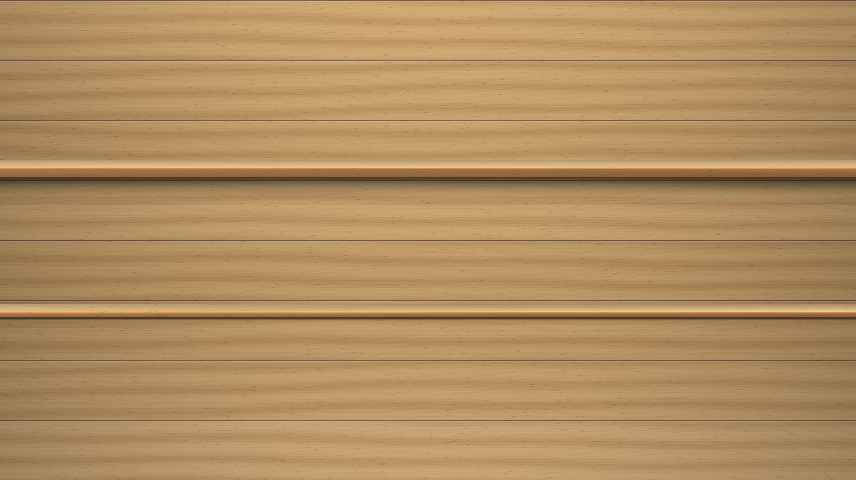
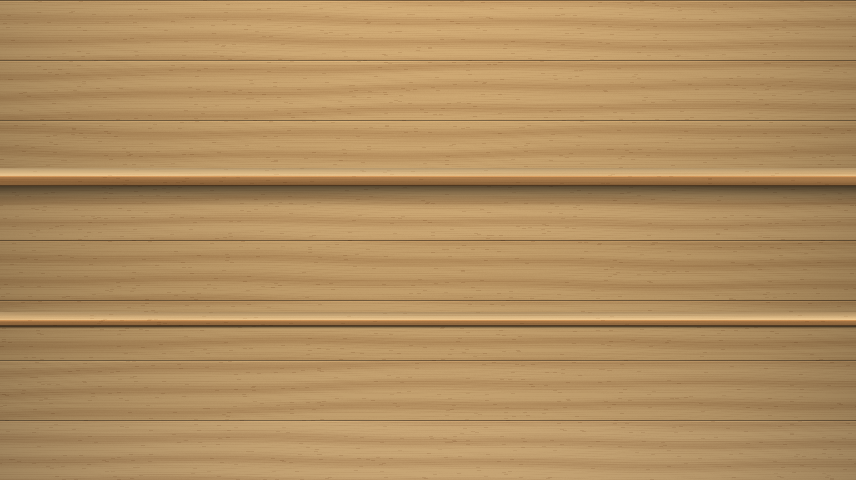
Tiles and covers swell with a small spring, and shelf hovers rise with the same easing while wide controls leave room for their neighbours (Dolphin: Settings, covers, layout cards, shelf and ring at 16:9; Wii build).

Changed region(s): [[0.0, 0.3125, 1.0, 0.4375], [0.0, 0.625, 1.0, 0.6875]]

diff --git a/wii/menu/gui_shelf.cpp b/wii/menu/gui_shelf.cpp
@@ -114,7 +114,8 @@ float g_mirrorY = kMirrorY;
 // and kept ready.
 constexpr int kRingPlaces = 20;
 constexpr int kRingReach = kRingPlaces / 2;
-constexpr float kRingFrontH = 236.0f;
+// Leave room for the hover at its highest point inside the top safe edge.
+constexpr float kRingFrontH = 220.0f;
 constexpr float kRingFloor = 266.0f;
 constexpr float kRingSpacing = 124.0f;
 constexpr float kRingMinRadiusX = 200.0f;
@@ -932,7 +933,7 @@ void GuiGameGrid::DrawShelf(int alpha) {
             want.z = (d == 0 ? kPullZ : 0.0f) + kArcRadius * (std::cos(a) - 1.0f);
             want.turn = static_cast<float>(M_PI) / 2 - kArcTurn * a + (d == 0 ? 0.07f * swing * settle : 0.0f) +
                         (d == 0 && shelfFlip ? static_cast<float>(M_PI) : 0.0f);
-            want.lift = -kArcDrop * (1.0f - std::cos(a)) + (i == shelfHover ? kLift : 0.0f) +
+            want.lift = -kArcDrop * (1.0f - std::cos(a)) +
                         (d == 0 ? 3.0f * (0.5f + 0.5f * std::sin(shelfClock * 0.045f)) * settle : 0.0f);
             if (!p.placed) {
                 p = want;
@@ -949,7 +950,6 @@ void GuiGameGrid::DrawShelf(int alpha) {
             want.x = 320.0f + (d < 0 ? -off : off);
             // Turned past a half (its back was shown): on round, not back.
             want.turn = p.placed && p.turn > static_cast<float>(M_PI) ? kTau : 0.0f;
-            want.lift = i == shelfHover ? kLift : 0.0f;
         }
         if (!p.placed) {
             // Coming into reach: a spine beside its neighbour nearer the
@@ -968,7 +968,11 @@ void GuiGameGrid::DrawShelf(int alpha) {
         p.x = riftwii::wii::transition::Follow(p.x, want.x, kBoxResponseMs);
         p.z = riftwii::wii::transition::Follow(p.z, want.z, kBoxResponseMs);
         p.turn = riftwii::wii::transition::Follow(p.turn, want.turn, kBoxResponseMs);
-        p.lift = riftwii::wii::transition::Follow(p.lift, want.lift, kBoxResponseMs);
+        // Keep the shelf's positioning glide separate from the springy
+        // hover, so following the target does not erase its overshoot.
+        const float previousHover = p.hover.Amount();
+        const float hover = p.hover.Advance(i == shelfHover);
+        p.lift = riftwii::wii::transition::Follow(p.lift - kLift * previousHover, want.lift, kBoxResponseMs) + kLift * hover;
         if (want.turn == kTau && p.turn > kTau - 0.01f) p.turn = 0.0f;
     }
     // Include newly placed boxes too, before drawing them or recording
@@ -1281,6 +1285,7 @@ void GuiGameGrid::DrawShelfCaption(int alpha) {
 void GuiGameGrid::DrawRing(int alpha) {
     const int n = Count();
     if (n <= 0) return;
+    if (static_cast<int>(poses.size()) != n) poses.assign(n, BoxPose{});
     const float elapsedFrames = riftwii::wii::transition::FrameMilliseconds() * (60.0f / 1000.0f);
     shelfClock = std::fmod(shelfClock + elapsedFrames, kSwayCycle);
     if (shelfFlipFor != focus) {
@@ -1361,10 +1366,12 @@ void GuiGameGrid::DrawRing(int alpha) {
         const float others = 0.30f + 0.42f * std::pow(near, 1.6f);
         const float front = std::max(0.0f, 1.0f - std::fabs(p.angle) / step);
         const float scale = others + (1.0f - others) * front;
-        const float h = kRingFrontH * scale;
+        const float hover = poses[p.index].hover.Advance(p.index == shelfHover);
+        const float h = kRingFrontH * scale * (1 + 0.04f * hover);
         const float cx = 320.0f + radiusX * std::sin(p.angle);
         float foot = kRingFloor - kRingRise * (1.0f - near);
-        if (p.index == shelfHover) foot -= 8.0f;
+        // The ring is already tall: four percent leaves the caption clear.
+        foot -= 8.0f * hover;
         if (p.index == focus) foot -= 3.0f * (0.5f + 0.5f * std::sin(shelfClock * 0.045f)) * settle;
         const u8 shade = static_cast<u8>(255 * (0.36f + 0.64f * near));
         const GXColor lit = {shade, shade, shade, static_cast<u8>(alpha)};

diff --git a/wii/menu/gui_gamegrid.cpp b/wii/menu/gui_gamegrid.cpp
@@ -106,7 +106,7 @@ constexpr float kIconPixelsW = 128.0f, kIconPixelsH = 96.0f;
 constexpr int kChannelPixelsH = 88, kChannelGapPixelsX = 12, kChannelGapY = 10;
 // As the other views' tiles; the search button moves to the bar
 // (rift_menu.cpp), the fourth column reaching the corner it had.
-constexpr int kChannelTop = 30;
+constexpr int kChannelTop = 36;
 // Roomy spacing (grid_spacing = roomy): a tester found the grid cramped
 // beside the Wii Menu, which leaves wider gaps at the sides. The channels
 // are 7/8 the size (112 x 77, the icons scaled with them, so no longer
@@ -301,10 +301,10 @@ float GuiGameGrid::Stretch() const {
 }
 
 const GuiGameGrid::Geometry& GuiGameGrid::Geo() const {
-    // The top row starts 6 below the overscan's edge (y 24): room for the lit ring.
+    // The top row leaves room above it for the grown ring and its shadow.
     // 120 x 84, the Wii Menu's channel shape (about 1.43 to 1 on a 4:3
     // menu); clear of the search button (x 568).
-    static const Geometry names = {kNameCols, 120, 84, 61, 30, 13, 12};  // channels: channelGeo
+    static const Geometry names = {kNameCols, 120, 84, 61, 36, 13, 12};  // channels: channelGeo
     // Roomy: 9/10 the size and 18 apart, about 77 at each side, the rows
     // centred where the normal ones are.
     static const Geometry roomyNames = {kNameCols, 108, 76, 77, 40, 18, 14};
@@ -314,7 +314,7 @@ const GuiGameGrid::Geometry& GuiGameGrid::Geo() const {
         const int w = static_cast<int>(riftwii::kCoverWidth * k + 0.5f);
         const int h = static_cast<int>(riftwii::kCoverHeight * k + 0.5f);
         const int gap = k > 1.0f ? 12 : 8;
-        coverGeo = {kCoverCols, w, h, 320 - (kCoverCols * w + (kCoverCols - 1) * gap) / 2, 30, gap, 10};
+        coverGeo = {kCoverCols, w, h, 320 - (kCoverCols * w + (kCoverCols - 1) * gap) / 2, 38, gap, 10};
         return coverGeo;
     }
     if (channels) {
@@ -1154,8 +1154,9 @@ void GuiGameGrid::Draw() {
     const auto draw_tile_body = [&](int i) {
         Slot& s = slots[i];
         const bool on = i == lit;
-        const float grown = i == carrySlot ? kCarryScale : on ? 1.06f : 1.0f;
-        s.scale = riftwii::wii::transition::Follow(s.scale, grown, 40.0f);
+        const float swell = s.swell.Advance(on);
+        if (i == carrySlot) s.scale = riftwii::wii::transition::Follow(s.scale, kCarryScale, 40.0f);
+        else s.scale = 1.0f + 0.06f * swell;
         if (!on && s.scale < 1.002f) s.scale = 1.0f;  // settled: a channel's icon back on whole pixels
         const int index = ItemAt(i);  // with a game picked up, the tiles shifted round it
         const int a = peek ? PeekAlpha(TileX(i), alpha) : tileAlpha;

diff --git a/wii/menu/gui_tiles.cpp b/wii/menu/gui_tiles.cpp
@@ -18,7 +18,6 @@ namespace skin = riftwii::wii::skin;
 namespace {
 
 constexpr int kShadow = 8;       // the tile textures' margin around the card
-constexpr float kLiftScale = 0.035f;  // how much a lit tile grows
 constexpr int kPad = 12;
 constexpr int kIcon = 28;
 constexpr u32 kWpadA = WPAD_BUTTON_A | WPAD_CLASSIC_BUTTON_A;
@@ -70,7 +69,10 @@ void GuiTiles::Refresh() {
         v->SetAlignment(ALIGN_H::LEFT, ALIGN_V::TOP);
         value.push_back(v);
     }
-    if (static_cast<int>(lift.size()) != Count()) lift.assign(Count(), 0.0f);
+    if (static_cast<int>(lift.size()) != Count()) {
+        lift.assign(Count(), 0.0f);
+        swell.assign(Count(), riftwii::wii::HoverSwell{});
+    }
     if (focus >= Count()) focus = Count() > 0 ? Count() - 1 : 0;
     dirty = true;
 }
@@ -165,6 +167,11 @@ void GuiTiles::Layout(int i) {
     value[i]->SetPosition(textX, labelY + (s.primary ? 28 : 23));
 }
 
+float GuiTiles::SwellScale(int index) const {
+    if (index < 0 || index >= Count()) return 1;
+    return riftwii::wii::ButtonSwellScale((*tiles)[index].w, swell[index].Amount());
+}
+
 void GuiTiles::Draw() {
     if (!IsVisible() || !tiles) return;
     riftwii::wii::DrawTrace trace("the page's tiles");
@@ -178,15 +185,17 @@ void GuiTiles::Draw() {
     for (int i = 0; i < Count(); ++i) {
         const TileSpec& s = (*tiles)[i];
         float& l = lift[i];
-        l = riftwii::wii::transition::Follow(l, i == lit ? 1.0f : 0.0f, 47.0f);
-        if (l < 0.01f) l = 0.0f;
-        if (l > 0.99f) l = 1.0f;
+        l = std::clamp(swell[i].Advance(i == lit), 0.0f, 1.0f);
         if (s.hidden) continue;
         // Lit, the tile grows a little about its middle and its ring fades in.
-        const float grow = 1.0f + kLiftScale * l;
+        const float grow = SwellScale(i);
         Menu_PushCamera(PressedScale(i), s.x + s.w / 2.0f, s.y + s.h / 2.0f);
         const float w = s.w * grow, h = s.h * grow;
-        const float x = s.x - (w - s.w) / 2, y = s.y - (h - s.h) / 2;
+        f32 safeX, safeW;
+        Menu_SafeArea(&safeX, &safeW);
+        // At an outer edge the growth goes inward, including its shadow.
+        const float x = std::clamp(s.x - (w - s.w) / 2, safeX + 32 + kShadow, safeX + safeW - 32 - kShadow - w);
+        const float y = std::clamp(s.y - (h - s.h) / 2, 24.0f + kShadow, 456.0f - kShadow - h);
         const skin::Tex& base = s.primary ? skin::tile9Primary : skin::tile9;
         const skin::Tex& over = s.primary ? skin::tile9PrimaryOver : skin::tile9Over;
         const int tileAlpha = s.dim ? alpha * 3 / 4 : alpha;

diff --git a/wii/menu/rift_menu.cpp b/wii/menu/rift_menu.cpp
@@ -3475,7 +3475,7 @@ public:
 			const TileSpec& tile = tiles_[index];
 			Menu_PushCamera(choices_.PressedScale(index), tile.x + tile.w / 2.0f, tile.y + tile.h / 2.0f);
 			const float lift = choices_.Lift(index);
-			const float grow = 1.0f + 0.035f * lift;
+			const float grow = choices_.SwellScale(index);
 			const float w = tile.w * grow, h = tile.h * grow;
 			const float x = tile.x - (w - tile.w) / 2, y = tile.y - (h - tile.h) / 2;
 			const skin::Tex& base = index == current_ ? skin::tile9Primary : skin::tile9;
@@ -11585,9 +11585,10 @@ public:
 		riftwii::wii::DrawTrace trace("the page's cover");
 		DrawDisc();
 		const float lit = litGrid && litTile >= 0 ? litGrid->Lift(litTile) : 0.0f;
-		const float grow = 1.0f + 0.035f * lit;
+		const float grow = litGrid && litTile >= 0 ? litGrid->SwellScale(litTile) : 1.0f;
 		const float w = kHeroW * grow, h = kHeroH * grow;
-		const float x = kHeroX - (w - kHeroW) / 2, y = kHeroY - (h - kHeroH) / 2;
+		// The cover already sits at the safe left edge: grow inward there.
+		const float x = static_cast<float>(kHeroX), y = kHeroY - (h - kHeroH) / 2;
 		const auto ring = [&](float rx, float ry, float rw, float rh) {
 			if (lit <= 0.0f) return;
 			const GXColor c = skin::WithAlpha(skin::kAccent, static_cast<int>(255 * lit));

diff --git a/tools/make_bookshelf_theme.py b/tools/make_bookshelf_theme.py
@@ -40,14 +40,14 @@ RNG = np.random.default_rng(1206)
 WALL_STATE = {}
 
 # Home's cover rows (wii/menu/gui_gamegrid.cpp): 80x112 covers, rounded
-# to the nearest pixel after scaling, from y 30 with a 10-pixel gap.
+# to the nearest pixel after scaling, from y 38 with a 10-pixel gap.
 # Widescreen uses 1.2 instead of 0.925, so its shelves stand lower too.
 COVER_ROW_BOTTOMS = {
-    640: (30 + 104, 30 + 104 + 10 + 104),
-    856: (30 + 134, 30 + 134 + 10 + 134),
+    640: (38 + 104, 38 + 104 + 10 + 104),
+    856: (38 + 134, 38 + 134 + 10 + 134),
 }
-# Home's channels: three rows of 88 from y 30, 10 apart (wii/menu/gui_gamegrid.cpp).
-CHANNEL_ROW_BOTTOMS = (30 + 88, 30 + 88 + 10 + 88, 30 + 3 * 88 + 2 * 10)
+# Home's channels: three rows of 88 from y 36, 10 apart (wii/menu/gui_gamegrid.cpp).
+CHANNEL_ROW_BOTTOMS = (36 + 88, 36 + 88 + 10 + 88, 36 + 3 * 88 + 2 * 10)
 # The shelf view's plank (kShelfY in wii/menu/gui_shelf.cpp).
 SHELF_VIEW_BOTTOM = 248
 
@@ -57,6 +57,7 @@ author = RiftWii
 
 [shape]
 corners = 1
+bar = dip
 shelf_grain = yes
 gloss = yes
 # The HOME Menu as iOS 6 drew things (iBooks kept its books on a wooden shelf).

diff --git a/wii/menu/gui_motion.cpp b/wii/menu/gui_motion.cpp
@@ -6,10 +6,31 @@
 #include <cmath>
 
 #include "menutheme.hpp"
+#include "skin.hpp"
 #include "transition.hpp"
 #include "video.h"
 
 namespace riftwii::wii {
+
+float HoverSwell::Advance(bool selected) {
+    if (selected != selected_) {
+        selected_ = selected;
+        from_ = amount_;
+        elapsed_ = 0;
+    }
+    const float duration = selected_ ? 240.0f : 180.0f;
+    elapsed_ = std::min(duration, elapsed_ + transition::FrameMilliseconds());
+    const float progress = elapsed_ / duration;
+    const float eased = selected_ ? transition::EaseBack(progress) : transition::EaseOut(progress);
+    const float target = selected_ ? 1.0f : 0.0f;
+    amount_ = from_ + (target - from_) * eased;
+    return amount_;
+}
+
+float ButtonSwellScale(float width, float amount) {
+    // At most eight pixels added at either end, even for a full-width Play.
+    return 1 + std::min(0.06f, 16.0f / std::max(1.0f, width)) * amount;
+}
 
 void DrawButtonGlint(float x, float y, float w, float h, float radius, int alpha) {
     const float phase = transition::Cycle(3500.0f);

diff --git a/vendor-libgui/source/libwiigui/gui_button.cpp b/vendor-libgui/source/libwiigui/gui_button.cpp
@@ -13,6 +13,7 @@
  * Every change is in RiftWii's git history; NOTICE.md lists the origin. */
 
 #include "gui.h"
+#include <algorithm>
 #include "video.h"
 #include "transition.hpp"
 #include "gui_motion.hpp"
@@ -153,10 +154,11 @@ void GuiButton::Draw()
 
 	namespace motion = riftwii::wii::transition;
 	const bool lit = state == STATE::SELECTED || state == STATE::HELD;
-	litAmount = motion::Follow(litAmount, lit ? 1.0f : 0.0f, 47.0f);
-	if (litAmount < 0.01f) litAmount = 0.0f;
-	if (litAmount > 0.99f) litAmount = 1.0f;
-	const float scale = (1.0f + (pageDirection ? 0.08f : 0.035f) * litAmount) * motion::PressScale(pressElapsed);
+	const float hover = swell.Advance(lit);
+	litAmount = std::min(1.0f, hover);
+	const float growth = pageDirection ? 1.0f + 0.08f * hover
+		: riftwii::wii::ButtonSwellScale(GetWidth(), hover);
+	const float scale = growth * motion::PressScale(pressElapsed);
 	float offset = 0;
 	if (pageDirection)
 	{

diff --git a/wii/menu/gui_tiles.hpp b/wii/menu/gui_tiles.hpp
@@ -7,6 +7,7 @@
 
 #include "libwiigui/gui.h"
 #include "skin.hpp"
+#include "gui_motion.hpp"
 
 // Tiles for the game page and Settings: large cards placed anywhere on
 // the screen, each with an icon, a name and its current value, in place of
@@ -43,6 +44,7 @@ public:
         return index >= 0 && index < static_cast<int>(lift.size()) ? lift[index] : 0.0f;
     }
     float PressedScale(int index) const { return index == pressedTile ? pressScale : 1.0f; }
+    float SwellScale(int index) const;
     void Draw() override;
     void Update(GuiTrigger* t) override;
 
@@ -57,6 +59,7 @@ private:
     int pressedTile = -1;
     float pressElapsed = -1.0f, pressScale = 1.0f;
     std::vector<float> lift;  // each tile's lit look, eased 0 to 1
+    std::vector<riftwii::wii::HoverSwell> swell;
     std::vector<GuiText*> label;
     std::vector<GuiText*> value;
     bool dirty = true;

diff --git a/wii/menu/gui_motion.hpp b/wii/menu/gui_motion.hpp
@@ -2,9 +2,26 @@
 // SPDX-License-Identifier: GPL-3.0-or-later
 #pragma once
 
-#include "skin.hpp"
+namespace riftwii::wii::skin { struct Tex; }
 
 namespace riftwii::wii {
+
+// One hover's arrival and departure, retaining its position if interrupted.
+// Amount may briefly pass 1; opacity should use min(1, Amount()).
+class HoverSwell {
+public:
+    float Advance(bool selected);
+    float Amount() const { return amount_; }
+
+private:
+    float amount_ = 0;
+    float from_ = 0;
+    float elapsed_ = 0;
+    bool selected_ = false;
+};
+
+// Wide buttons need less growth to leave their neighbours' text clear.
+float ButtonSwellScale(float width, float amount);
 
 // A quiet sweep every 3.5 seconds, inside the button's rounded body.
 // Draw before its label, under the same camera as the button.

diff --git a/wii/menu/gui_gamegrid.hpp b/wii/menu/gui_gamegrid.hpp
@@ -10,6 +10,7 @@
 #include "riftwii/homeinput.hpp"
 #include "riftwii/settingsfile.hpp"
 #include "skin.hpp"
+#include "gui_motion.hpp"
 
 // The home screen's games: a page of 12 tiles like the Wii Menu's
 // channels, either names (4x3 wide tiles) or box art (6x2 covers, the
@@ -192,6 +193,7 @@ private:
         GuiText* badge;
         GuiText* mods;
         float scale = 1.0f;
+        riftwii::wii::HoverSwell swell;
     };
     struct Geometry {
         int cols, tileW, tileH, left, top, gapX, gapY;
@@ -296,6 +298,7 @@ private:
     struct BoxPose {
         float x = 320.0f, z = 0.0f, turn = 0.0f, lift = 0.0f;
         bool placed = false;
+        riftwii::wii::HoverSwell hover;
     };
     struct SpineRect {
         int index;

diff --git a/vendor-libgui/source/libwiigui/gui_button.h b/vendor-libgui/source/libwiigui/gui_button.h
@@ -1,6 +1,8 @@
 #ifndef LIBWIIGUI_BUTTON_H
 #define LIBWIIGUI_BUTTON_H
 
+#include "gui_motion.hpp"
+
 //!Display, manage, and manipulate buttons in the GUI. Buttons can have images, icons, text, and sound set (all of which are optional)
 class GuiButton : public GuiElement {
 public:
@@ -79,6 +81,7 @@ protected:
 	int pageDirection = 0;  //!< RiftWii: an edge arrow, -1 left or +1 right
 	float pressElapsed = -1.0f;  //!< RiftWii: a press continues after ResetState
 	float litAmount = 0.0f;  //!< RiftWii: how lit, eased (Draw)
+	riftwii::wii::HoverSwell swell;
 	GuiImage * image; //!< Button image (default)
 	GuiImage * imageOver; //!< Button image for STATE_SELECTED
 	GuiImage * imageHold; //!< Button image for STATE_HELD

diff --git a/NOTICE.md b/NOTICE.md
@@ -20,7 +20,7 @@ an `SPDX-FileCopyrightText` line at the top; this table has the detail
 | WiiFlow Lite's plugin files (format reference) | `include/riftwii/wiiflowplugin.hpp`, `src/data/wiiflowplugin.cpp`, `wii/storage/emulators.cpp`, `wii/menu/emulatorcovers.cpp` | fledge68's WiiFlow Lite (https://github.com/fledge68/WiiFlow_Lite, read 2026-10-28): `source/plugin/plugin.cpp` and `plugin.hpp` (the `[PLUGIN]` keys and the `arguments` placeholders), `source/menu/menu_game_boot.cpp` (what each placeholder holds, where `dolFile` is looked for), `source/menu/menu.cpp` (`romDir` per drive, the plugin covers' path) and `source/list/ListGenerator.cpp` (`fileTypes` as endings) | WiiFlow Lite GPL-3.0. Read as documentation of the file format, so that players' existing plugin files work; no source text copied. RiftWii's reader is its own, and RiftWii ships no plugin files. |
 | Dragon Quest X's WFS drive (format reference) | `include/riftwii/wfs.hpp`, `src/fs/wfs.cpp`, `include/riftwii/wfstitle.hpp`, `src/fs/wfstitle.cpp`, `wii/storage/wfsdrive.cpp`, `tests/wfs_image.hpp` | koolkdev's wfslib commit `5d440ceec7d0c633bbb4f542996b690ef5ae0518` (https://github.com/koolkdev/wfslib: block, area, quota, directory tree and file layouts, the block encryption IV and hashes) and wfs-tools commit `98b5979d9652e6b51cd240e5a7dfa5289cbc9303` (https://github.com/koolkdev/wfs-tools); Dolphin commit `22b581c670d84e60d11c1b02d38e1c7789ae2dfa`, `Source/Core/Core/IOS/WFS/` and `Source/Core/Core/IOS/VersionInfo.cpp` (IOS59's WFS devices, the installed title's layout on the drive) | wfslib and wfs-tools MIT, Dolphin GPL-2.0-or-later. Read as documentation; no source text copied. RiftWii's reader is its own, read-only, and was checked against wfslib on drives wfslib wrote. |
 | pugixml | `vendor-pugixml/` | 1.15, https://github.com/zeux/pugixml | MIT (`vendor-pugixml/LICENSE.md`) |
-| libwiigui | `vendor-libgui/source/libwiigui/`, `video.cpp`, `input.cpp`, `audio.cpp`, `gettext.cpp` (not built; `wii/core/i18n.cpp` replaces it), `filebrowser.cpp`, `menu.cpp` (template) | 1.07 snapshot by Tantric, https://github.com/dborth/libwiigui at tag `1.07`, commit `e5cbe559146a981bb3c1772b74191674b66dad60` | GPL (version unspecified upstream; used under GPL-3.0-or-later). Three of RiftWii's files grew from the template and name Tantric as a holder: `wii/menu/rift_menu.cpp` (from `menu.cpp`: the GUI thread with `HaltGui`/`ResumeGui`/`UpdateGUI`, `MainMenu` and the menu loops), `wii/main.cpp` (from `demo.cpp`: the start-up order and `ExitApp`) and `wii/menu/skin.cpp` (`DrawRgb5a3`, after `Menu_DrawImg` in `video.cpp`). RiftWii's build has no C++ exceptions, so `GuiWindow` and `GuiKeyboard` (`gui_window.cpp`, `gui_keyboard.cpp`) check the element list's length in their loops instead of catching `std::out_of_range` from `_elements.at()` (an element's handler can remove others mid-loop). RiftWii's button focus drawing (`gui_button.cpp`) follows elapsed time with the menu's shared motion helper; menu buttons dip immediately on press for 80 ms, spring back over 180 ms, and breathe their focus overlay on a shared 1.8-second clock. The overlay preserves child alpha while fading. Message-box buttons can request the shared 3.5-second glint, drawn inside their rounded bodies before their labels. Menu buttons use that growth once, without the template's additional frame-stepped scale effect. `GuiElement::GetLeft` and `GetTop` (`gui_element.cpp`) keep a position fractional and floor it once, so a scaled, centred icon is not moved a pixel off its button's middle. |
+| libwiigui | `vendor-libgui/source/libwiigui/`, `video.cpp`, `input.cpp`, `audio.cpp`, `gettext.cpp` (not built; `wii/core/i18n.cpp` replaces it), `filebrowser.cpp`, `menu.cpp` (template) | 1.07 snapshot by Tantric, https://github.com/dborth/libwiigui at tag `1.07`, commit `e5cbe559146a981bb3c1772b74191674b66dad60` | GPL (version unspecified upstream; used under GPL-3.0-or-later). Three of RiftWii's files grew from the template and name Tantric as a holder: `wii/menu/rift_menu.cpp` (from `menu.cpp`: the GUI thread with `HaltGui`/`ResumeGui`/`UpdateGUI`, `MainMenu` and the menu loops), `wii/main.cpp` (from `demo.cpp`: the start-up order and `ExitApp`) and `wii/menu/skin.cpp` (`DrawRgb5a3`, after `Menu_DrawImg` in `video.cpp`). RiftWii's build has no C++ exceptions, so `GuiWindow` and `GuiKeyboard` (`gui_window.cpp`, `gui_keyboard.cpp`) check the element list's length in their loops instead of catching `std::out_of_range` from `_elements.at()` (an element's handler can remove others mid-loop). RiftWii's button focus drawing (`gui_button.cpp`) follows elapsed time with the menu's shared motion helper; hover grows by six percent (less for wide controls), with a 240 ms overshoot and an eased 180 ms return; menu buttons dip immediately on press for 80 ms, spring back over 180 ms, and breathe their focus overlay on a shared 1.8-second clock. The overlay preserves child alpha while fading. Message-box buttons can request the shared 3.5-second glint, drawn inside their rounded bodies before their labels. Menu buttons use that growth once, without the template's additional frame-stepped scale effect. `GuiElement::GetLeft` and `GetTop` (`gui_element.cpp`) keep a position fractional and floor it once, so a scaled, centred icon is not moved a pixel off its button's middle. |
 | FreeTypeGX | `vendor-libgui/source/FreeTypeGX.*` | Armin Tamzarian, bundled with libwiigui | GPL-3.0-or-later (header in file). RiftWii changed `charToWideChar` to decode UTF-8 (for the translations and game names), adds only the FreeType modules the menu font needs, and lets `InitFreeType` take a font collection's face and report a font it can't read (Settings > Menu font), adds `FontHasChar` (a Korean menu needs a font with Hangul), and adds `RenderTextCoverage`, which draws text into a plain bitmap through a size of its own, centred or left-aligned and narrowed for a 16:9 TV (a GameCube game's crash screen, drawn without GX), tells the menu's GX trace of each glyph it draws (`Menu_TextureHook`, settings.txt `debug_gx`), and adds `SetMissingGlyphSource`: a character the face lacks is asked of a second source (the separate Korean font copied into MEM2 from the card, `wii/menu/fullfont.cpp`) and cached like the face's glyphs, its texture from that source's memory. The bitmap source's glyphs (the Wii Menu's font) are made at the screen's own pixels and drawn texel for pixel from a whole pixel (`Menu_GlyphPixels`, `Menu_SnapToPixel` in `video.cpp`), with float vertex positions, so a 16:9 menu's narrower units don't resample them; glyphs made again after a display change free their old textures once the frame is drawn (`FreeRetiredGlyphs`). |
 | WiiDRC (Wii U GamePad) | `vendor-libgui/source/wiidrc.*`, `vendor-libgui/source/input.cpp` (GamePad scan) | FIX94, 2017 (MIT header in file) | MIT. Direct-I2C GamePad reads; no IOS calls, safe no-op on plain Wii and under Dolphin. |
 | oggplayer | `vendor-libgui/source/oggplayer.*` | Francisco Munoz "Hermes", 2008 | BSD-3-Clause (header in file) |
